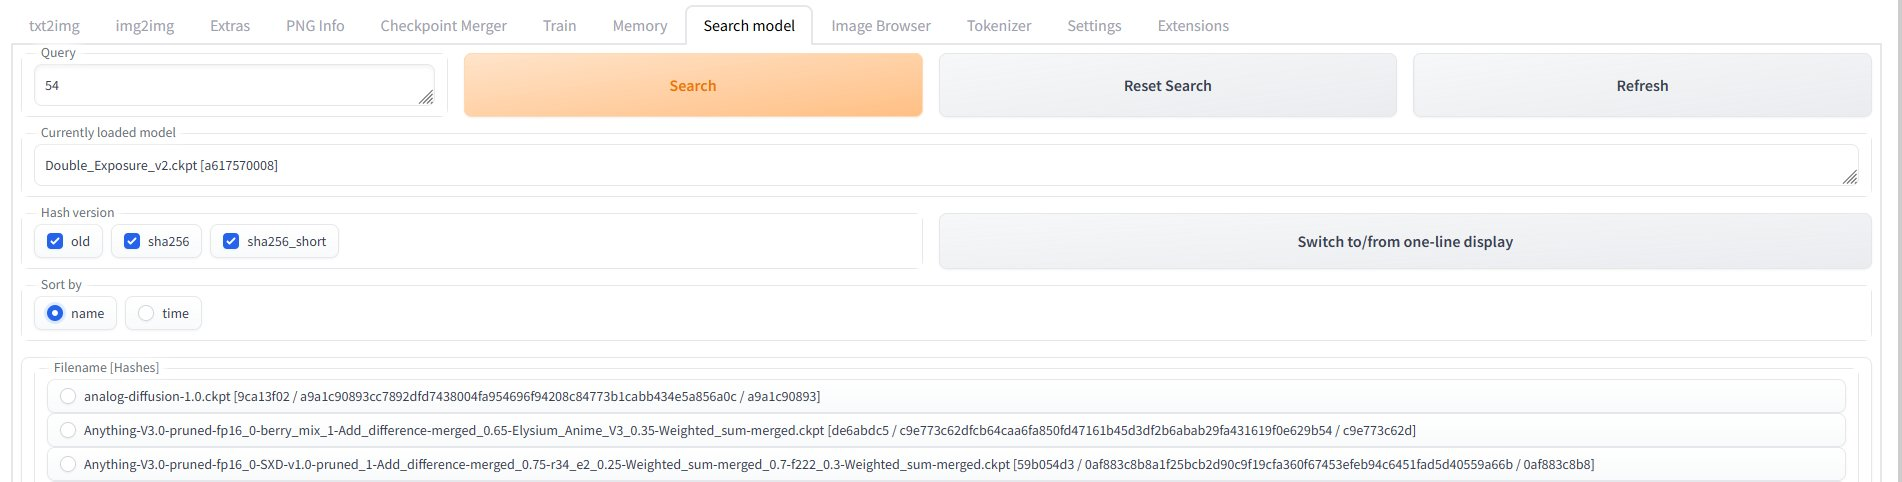
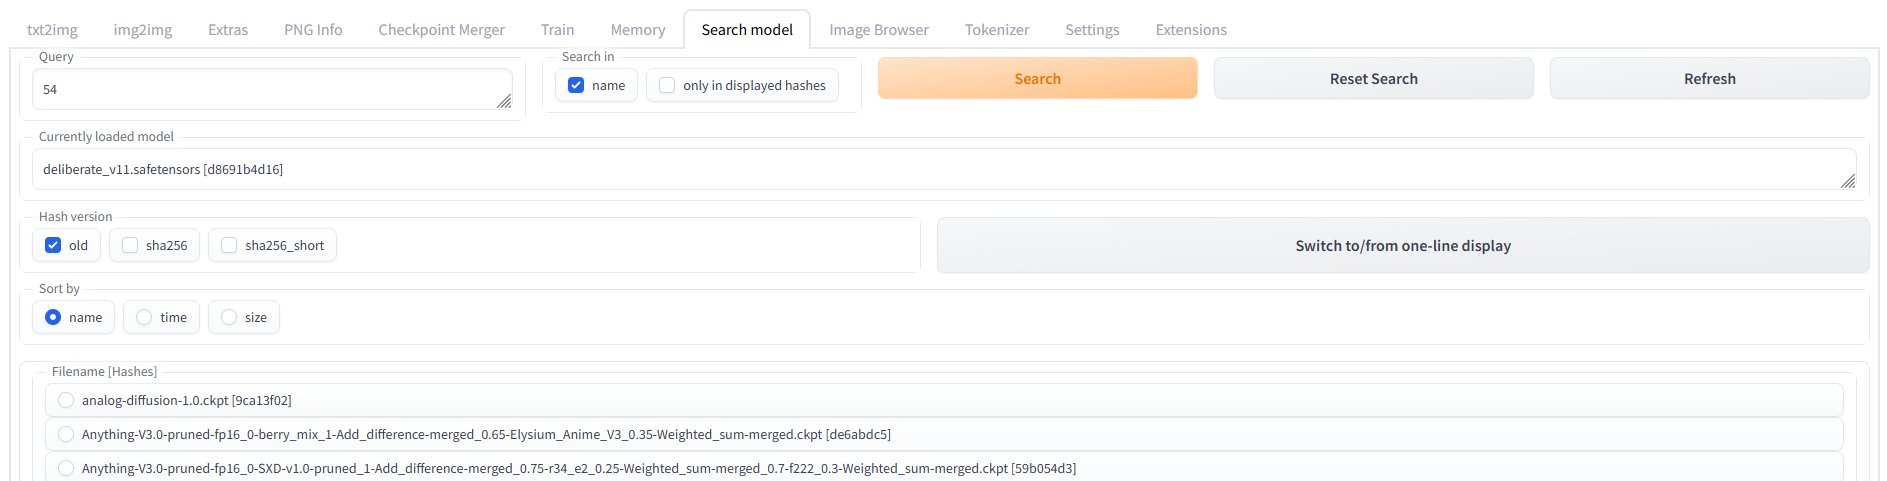
search options

diff --git a/scripts/sd_search_model.py b/scripts/sd_search_model.py
@@ -119,13 +119,28 @@ def on_ui_tabs():
         selected = args[2]
         ssm_trigger1_number = args[3] + 1
         sort_option = args[4]
+        search_options = args[5]
+
+        search_filename = False
+        search_hash_old = False
+        search_hash_new = False
+        search_hash_new_short = False
+        if "name" in search_options:
+            search_filename = True
+        if ("only in displayed hashes" in search_options and "old" in hash_types) or ("only in displayed hashes" not in search_options):
+            search_hash_old = True
+        if ("only in displayed hashes" in search_options and "sha256" in hash_types) or ("only in displayed hashes" not in search_options):
+            search_hash_new = True
+        if ("only in displayed hashes" in search_options and "sha256_short" in hash_types) or ("only in displayed hashes" not in search_options):
+            search_hash_new_short = True
+
         # Check if the query matches any filenames or hashes in the hashes dictionary
         for hashes in Hashes.hashes_dict.values():
             query_wildcard = "*" + query + "*"
-            if (fnmatch.fnmatch(hashes.filename, query_wildcard) or
-                ("old" in hash_types and fnmatch.fnmatch(hashes.hash_old, query_wildcard)) or
-                ("sha256" in hash_types and fnmatch.fnmatch(hashes.hash_new, query_wildcard)) or
-                ("sha256_short" in hash_types and fnmatch.fnmatch(hashes.hash_new_short, query_wildcard))):
+            if  ((search_filename and fnmatch.fnmatch(hashes.filename, query_wildcard)) or
+                (search_hash_old and fnmatch.fnmatch(hashes.hash_old, query_wildcard)) or
+                (search_hash_new and fnmatch.fnmatch(hashes.hash_new, query_wildcard)) or
+                (search_hash_new_short and fnmatch.fnmatch(hashes.hash_new_short, query_wildcard))):
                 hashes.visible = True
             else:
                 hashes.visible = False
@@ -177,10 +192,16 @@ def on_ui_tabs():
 
     with gr.Blocks() as ssm_interface:
         with gr.Row():
-            ssm_query_textbox = gr.Textbox(label="Query", elem_id="ssm_query")
-            ssm_search_button = gr.Button(value="Search", elem_id="ssm_search", variant="primary")
-            ssm_reset_button = gr.Button(value="Reset Search", elem_id="ssm_reset")
-            ssm_generate_button = gr.Button(value='Refresh', elem_id="ssm_generate")
+            with gr.Column(scale=80):
+                ssm_query_textbox = gr.Textbox(label="Query", elem_id="ssm_query")
+            with gr.Column(scale=1):
+                ssm_search_options_checkbox = gr.CheckboxGroup(label="Search in", elem_id="ssm_search_options", choices=("name", "only in displayed hashes"), value=["name", "only in displayed hashes"])
+            with gr.Column(scale=1):
+                ssm_search_button = gr.Button(value="Search", elem_id="ssm_search", variant="primary")
+            with gr.Column(scale=1):
+                ssm_reset_button = gr.Button(value="Reset Search", elem_id="ssm_reset")
+            with gr.Column(scale=1):
+                ssm_generate_button = gr.Button(value='Refresh', elem_id="ssm_generate")
 
         with gr.Row():
             ssm_current_textbox = gr.Textbox(label="Currently loaded model", elem_id="ssm_current", value=shared.opts.sd_model_checkpoint)
@@ -199,7 +220,7 @@ def on_ui_tabs():
 
         ssm_search_button.click(
             fn=ssm_search,
-            inputs=[ssm_query_textbox, ssm_hash_version_checkbox, ssm_radio, ssm_trigger1_number, ssm_sort_radio],
+            inputs=[ssm_query_textbox, ssm_hash_version_checkbox, ssm_radio, ssm_trigger1_number, ssm_sort_radio, ssm_search_options_checkbox],
             outputs=[ssm_radio, ssm_trigger1_number],
         )
 
